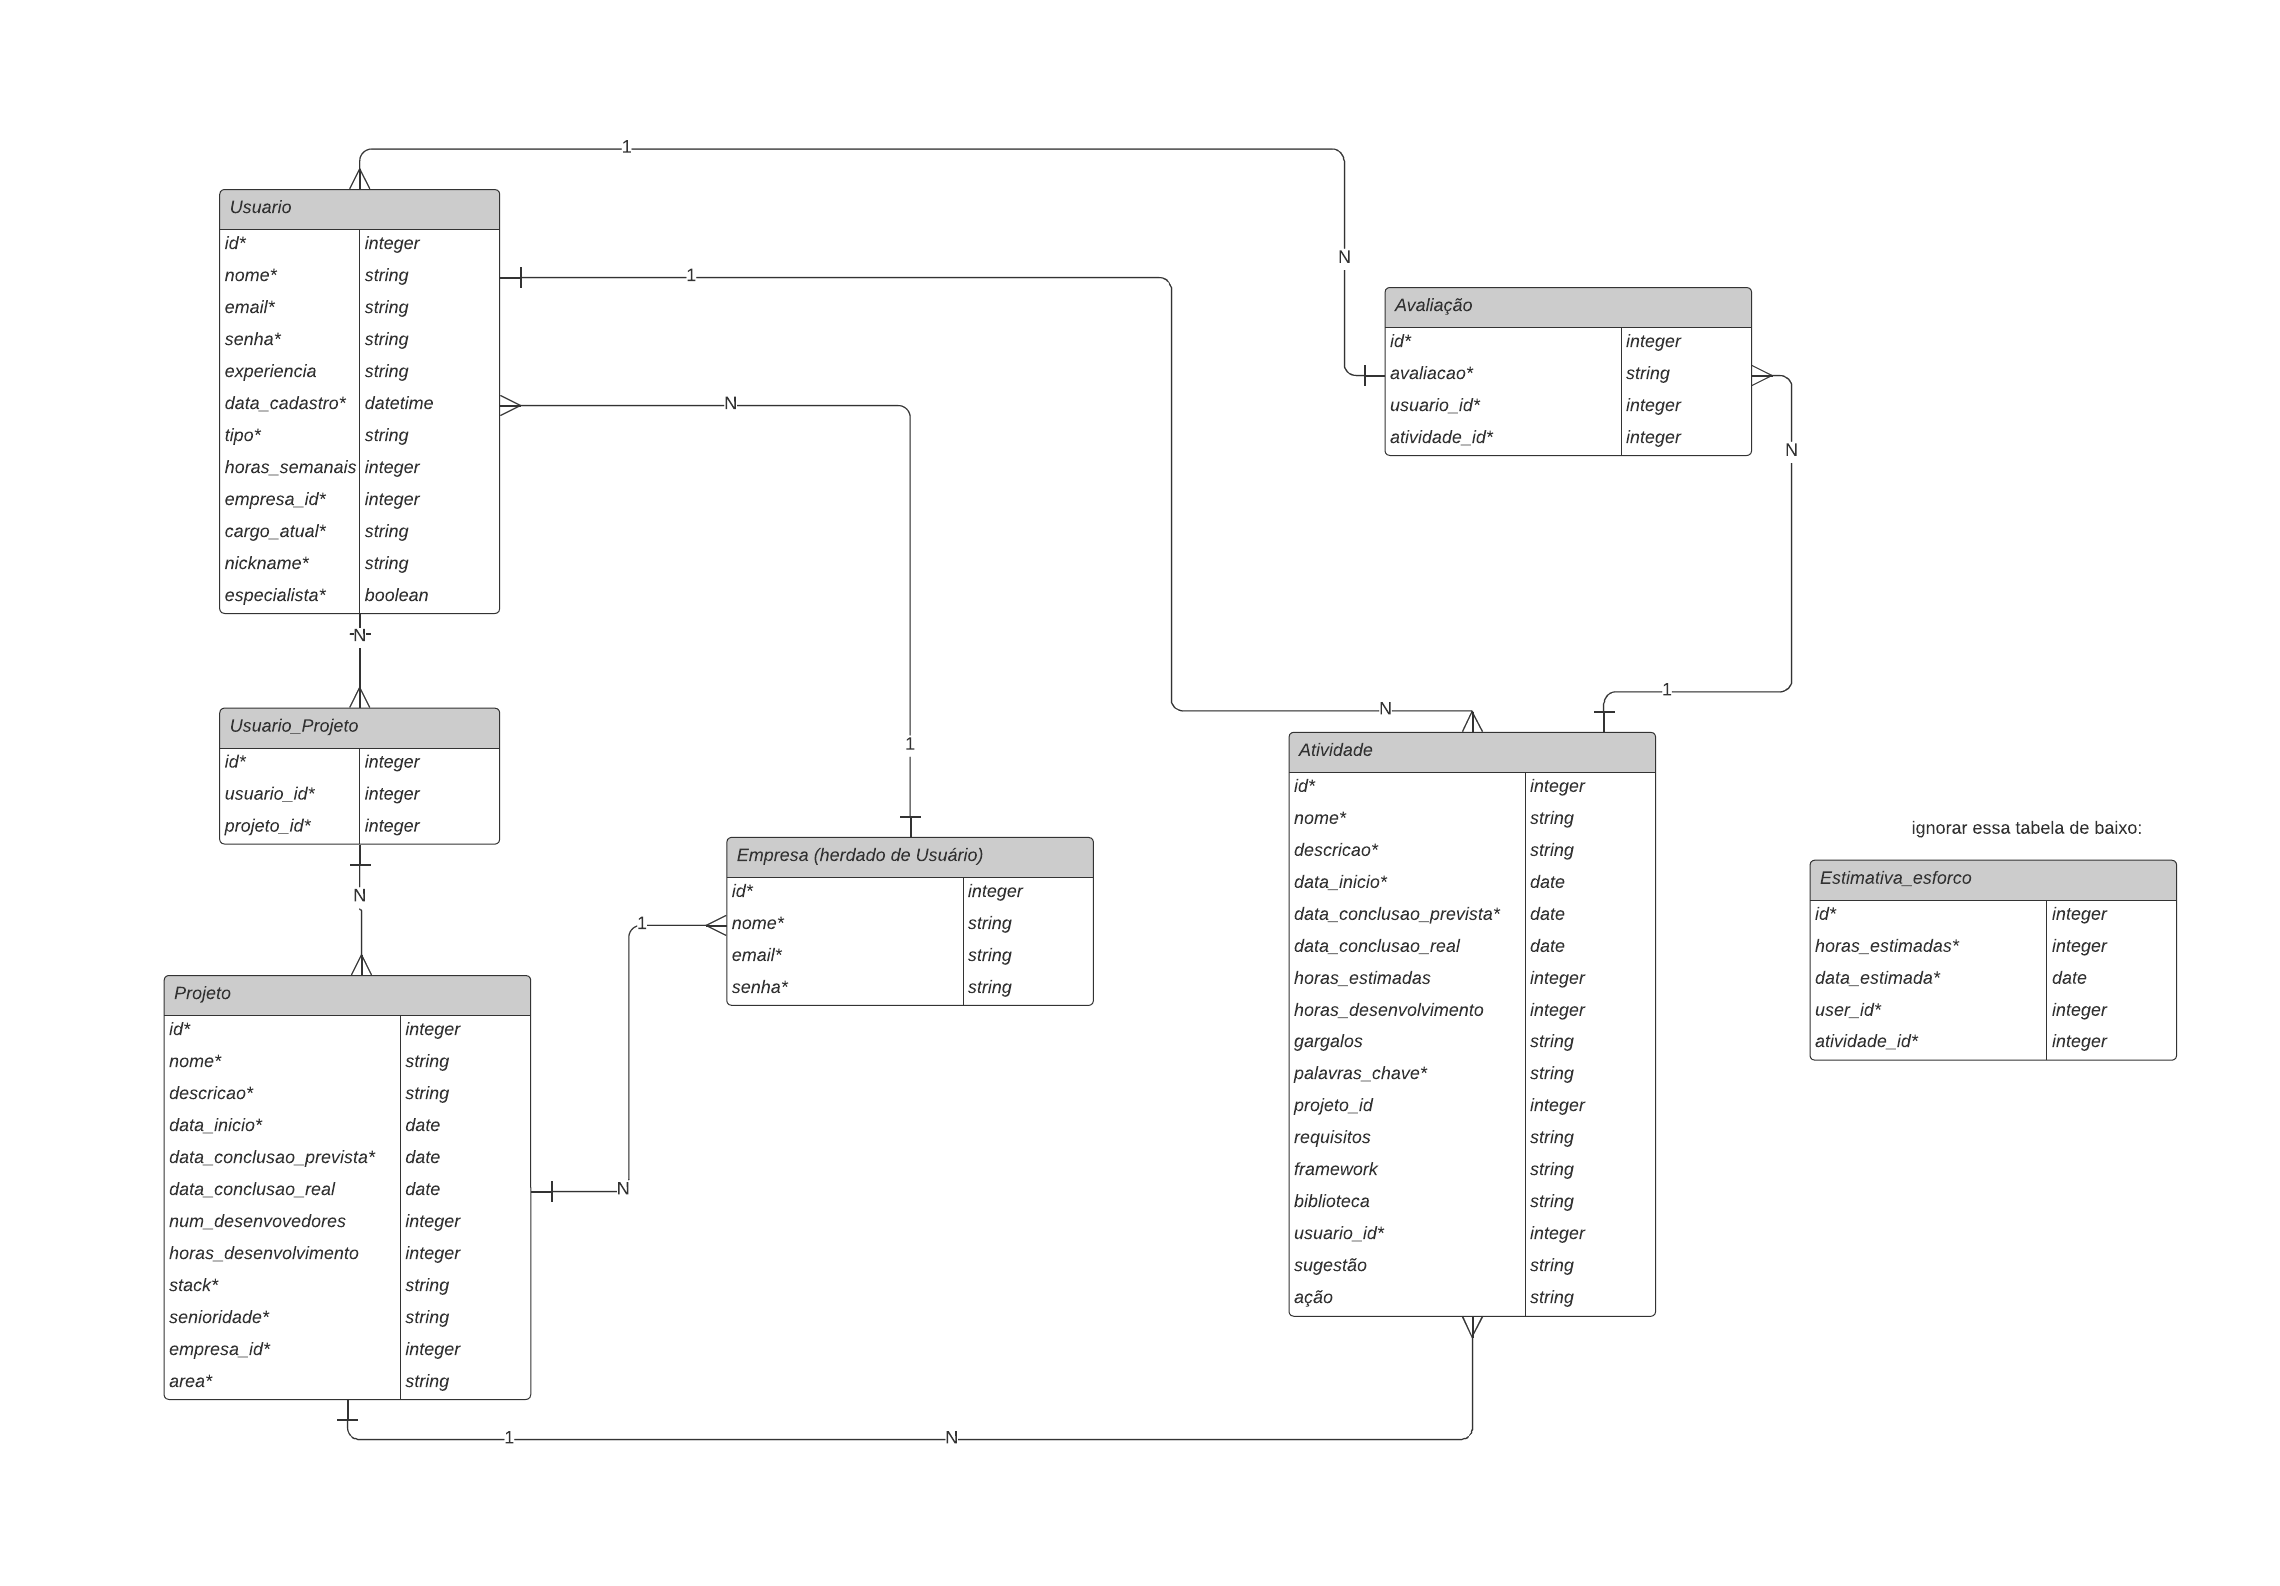
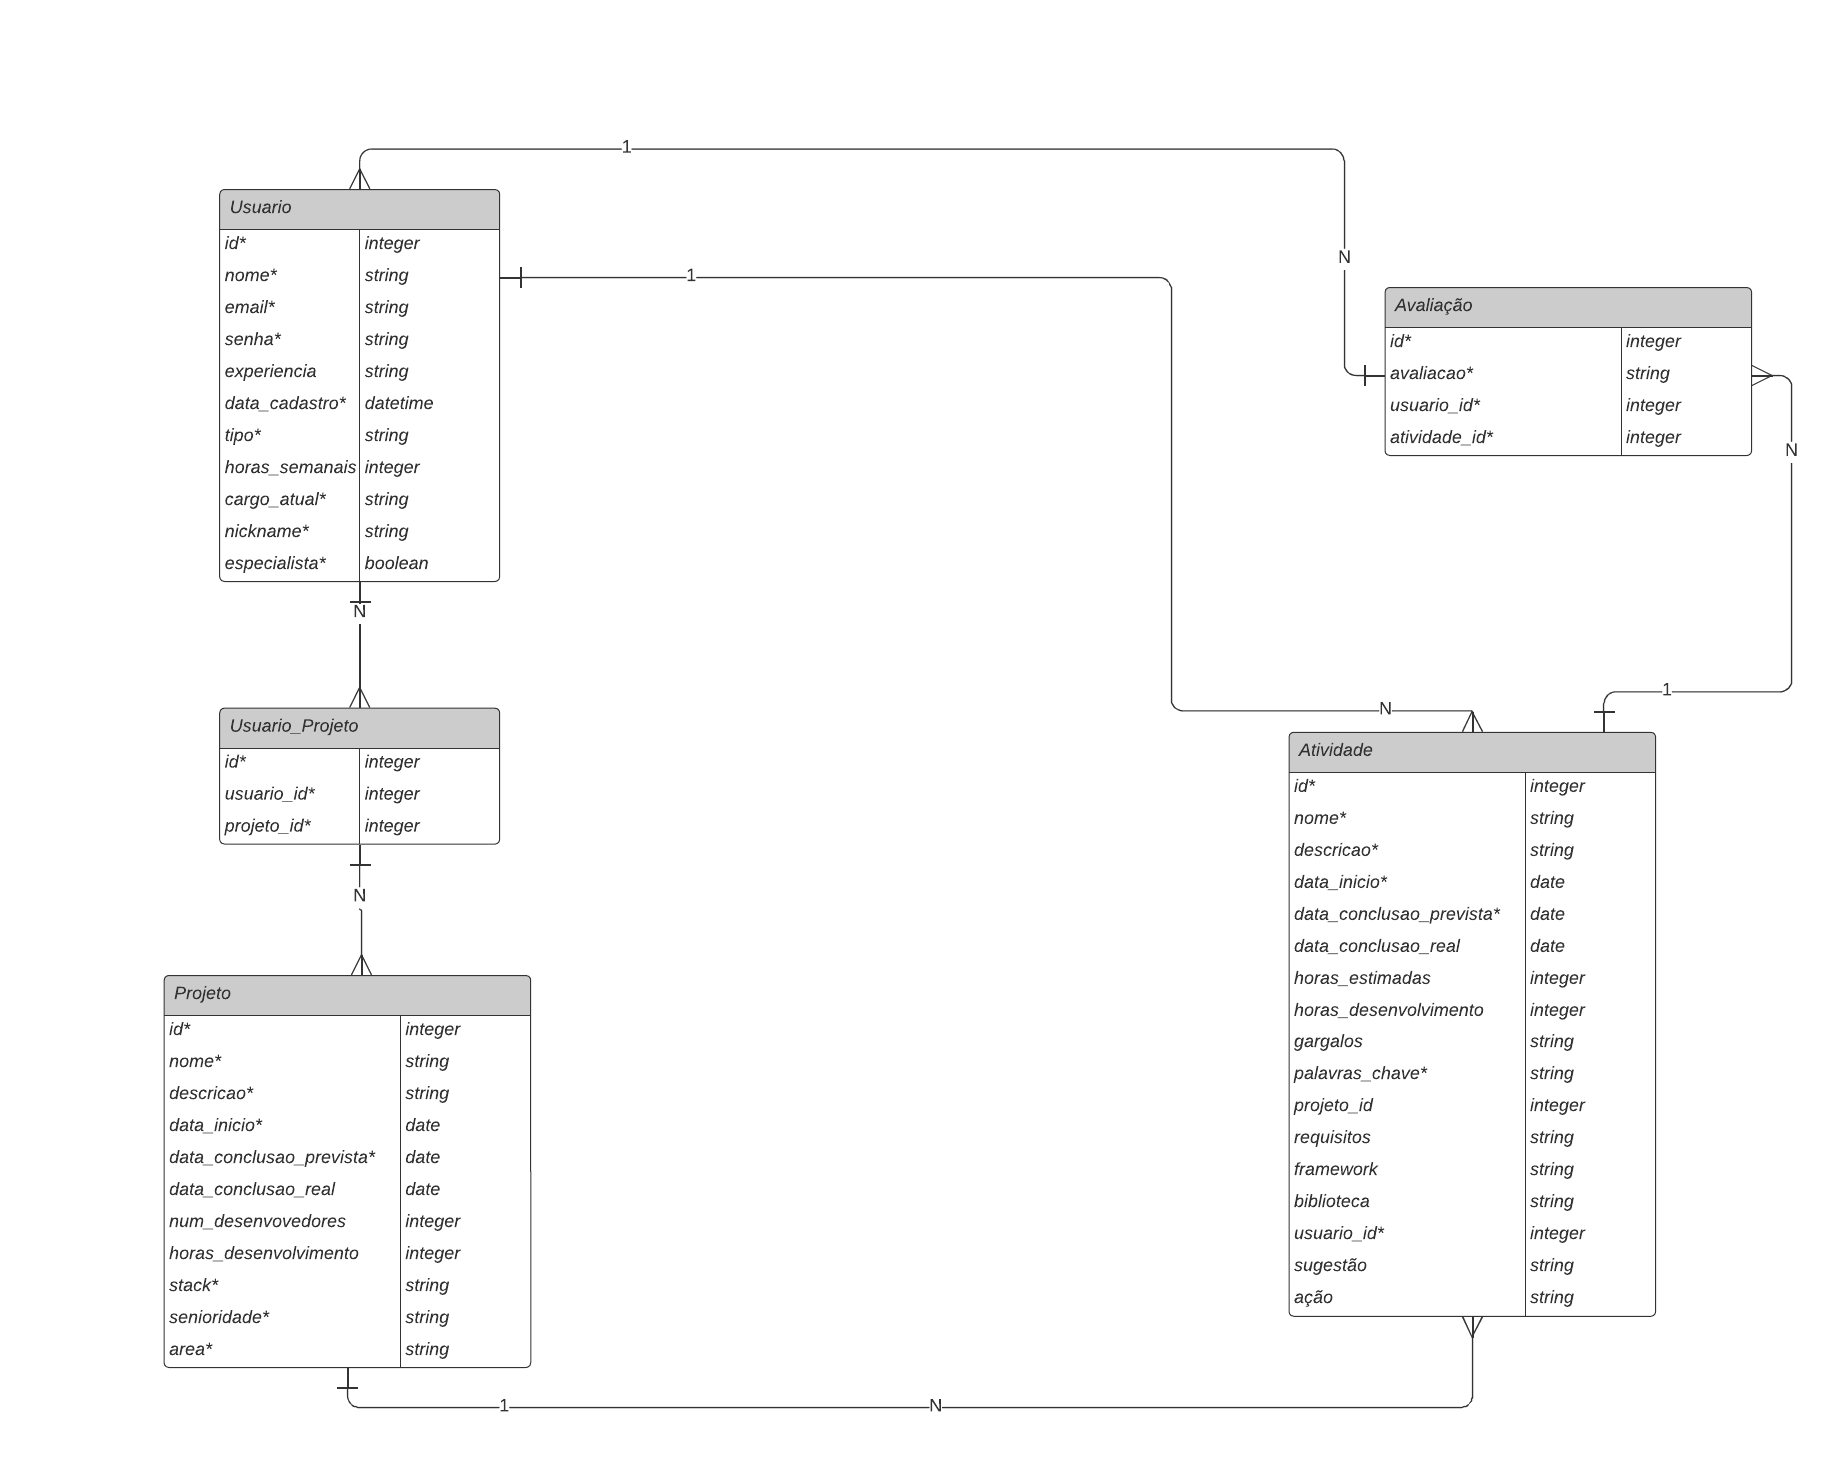
Adicionar Projeto

diff --git a/app/routes/projeto/router.py b/app/routes/projeto/router.py
@@ -1,0 +1,66 @@
+from fastapi import APIRouter, HTTPException, Path, Depends
+from database.config import SessionLocal
+from sqlalchemy.orm import Session
+from database.schemas import ProjetoSchema,RequestProjeto,Response
+from routes.projeto import functions as projeto_routes
+from datetime import datetime
+import pytz
+
+router = APIRouter()
+
+def get_db():
+    db = SessionLocal()
+    try:
+        yield db
+    finally:
+        db.close()
+
+
+@router.post("/create")
+async def create_projeto(request: RequestProjeto, db: Session = Depends(get_db)):
+    projeto_routes.f_create_projeto(db, projeto=request)
+    return Response(status="Ok",
+                    code="200",
+                    message="Projeto criado",
+                    result=request).dict(exclude_none=True)
+
+
+@router.get("/")
+async def get_projetos(skip: int = 0, limit: int = 100, db: Session = Depends(get_db)):
+    projetos_list = projeto_routes.f_get_projeto_all(db, skip, limit)
+    if len(projetos_list) != 0:
+        return Response(status="Ok", code="200", message="Projetos coletados", result=projetos_list)
+    else:
+        return Response(status="Ok", code="200", message="Nenhum projeto foi encontrado", result=None)
+
+@router.get("/{projeto_id}")
+def get_projeto_por_id(projeto_id: int, db: Session = Depends(get_db)):
+    _projeto = projeto_routes.f_get_projeto_by_id(db, projeto_id)
+    if _projeto is None:
+        return Response(status="Ok", code="200", message=f"Projeto com o ID {projeto_id} não encontrado.", result=None).dict(exclude_none=True)
+    else:
+        return Response(status="Ok", code="200", message="Projeto coletado", result=_projeto).dict(exclude_none=True)
+
+
+@router.post("/")
+async def update_projeto(request: RequestProjeto,projeto_id: int, db: Session = Depends(get_db)):
+
+    fuso_horario = pytz.timezone('America/Sao_Paulo')
+    data_atual = datetime.now().astimezone(fuso_horario)
+    _projeto = projeto_routes.f_update_projeto(db,projeto_id = projeto_id, nome= request.nome,
+                                               descricao= request.descricao,
+                                               data_inicio= request.data_inicio,
+                                               data_conclusao_prevista= request.data_conclusao_prevista,
+                                               data_conclusao_real= request.data_conclusao_real,
+                                               num_desenvolvedores= request.num_desenvolvedores,
+                                               horas_desenvolvimento= request.horas_desenvolvimento,
+                                               stack= request.stack,
+                                               senioridade= request.senioridade,
+                                               area= request.area)
+    return Response(status="Ok", code="200", message="Update feito com sucesso", result=request)
+
+
+@router.delete("/{projeto_id}")
+async def delete_projeto(projeto_id:int,  db: Session = Depends(get_db)):
+    projeto_routes.f_remove_projeto(db, projeto_id)
+    return Response(status="Ok", code="200", message="Delete feito com sucesso", result= f'ID: {projeto_id}').dict(exclude_none=True)

diff --git a/app/database/schemas.py b/app/database/schemas.py
@@ -4,7 +4,11 @@ from pydantic.generics import GenericModel
 from datetime import datetime
 
 T = TypeVar('T')
-
+class Response (GenericModel, Generic[T]):
+    code: str
+    status: str
+    message: str
+    result: Optional[T]
 class UsuarioSchema(BaseModel):
     id: Optional[int]=None
     nome: str
@@ -35,8 +39,94 @@ class RequestUsuario(BaseModel):
     cargo_atual: str
     nickname: str
     especialista: bool
-class Response (GenericModel, Generic[T]):
-    code: str
-    status: str
-    message: str
-    result: Optional[T]
+
+
+class ProjetoSchema(BaseModel):
+    id: Optional[int]=None
+    nome: str
+    descricao: str
+    data_inicio: datetime
+    data_conclusao_prevista: datetime
+    data_conclusao_real: datetime
+    num_desenvolvedores: int
+    horas_desenvolvimento: int
+    stack: str
+    senioridade: str
+    area: str
+
+    def from_orm(cls, projeto):
+        return cls(**projeto.__dict__)
+    class Config:
+        orm_mode = True
+
+class RequestProjeto(BaseModel):
+    nome: str
+    descricao: str
+    data_inicio: datetime
+    data_conclusao_prevista: datetime
+    data_conclusao_real: datetime
+    num_desenvolvedores: int
+    horas_desenvolvimento: int
+    stack: str
+    senioridade: str
+    area: str
+
+
+class AvaliacaoSchema(BaseModel):
+    id: Optional[int]=None
+    nome: Optional[str]=None
+    usuario_id: Optional[int]=None
+    atividade_id: Optional[int]=None
+
+    def from_orm(cls, avaliacao):
+        return cls(**avaliacao.__dict__)
+    class Config:
+        orm_mode = True
+
+class RequestAvaliacao(BaseModel):
+    nome: Optional[str]=None
+    usuario_id: Optional[int]=None
+    atividade_id: Optional[int]=None
+
+class AtividadeSchema(BaseModel):
+    id: Optional[int]=None
+    nome: str
+    descricao: str
+    data_inicio: datetime
+    data_conclusao_prevista: datetime
+    data_conclusao_real: datetime
+    horas_estimadas: int
+    horas_desenvolvimento: int
+    gargalos: str
+    palavras_chave: str
+    projeto_id: int
+    requisitos: str
+    framework: str
+    biblioteca: str
+    usuario_id: int
+    sugestao: str
+    acao: str
+
+
+    def from_orm(cls,atividade):
+        return cls(**atividade.__dict__)
+    class Config:
+        orm_mode = True
+
+class RequestAtividade(BaseModel):
+    nome: str
+    descricao: str
+    data_inicio: datetime
+    data_conclusao_prevista: datetime
+    data_conclusao_real: datetime
+    horas_estimadas: int
+    horas_desenvolvimento: int
+    gargalos: str
+    palavras_chave: str
+    projeto_id: int
+    requisitos: str
+    framework: str
+    biblioteca: str
+    usuario_id: int
+    sugestao: str
+    acao: str

diff --git a/app/routes/projeto/functions.py b/app/routes/projeto/functions.py
@@ -1,0 +1,63 @@
+from sqlalchemy.orm import Session
+from database.schemas import ProjetoSchema
+from database.model import Projeto
+from fastapi import FastAPI
+from datetime import datetime
+import pytz
+import json
+
+def f_get_projeto_all(db:Session, skip: int=0, limit: int = 100):
+
+    _projetos = db.query(Projeto).offset(skip).limit(limit).all()
+
+    projetos_list = []
+    for projeto in _projetos:
+        projeto_dict = {column.name: getattr(projeto, column.name) for column in Projeto.__table__.columns}
+        projetos_list.append(projeto_dict)
+
+    return projetos_list
+
+def f_get_projeto_by_id(db:Session,projeto_id:int):
+    return db.query(Projeto).filter(Projeto.id == projeto_id).first()
+
+def f_create_projeto(db:Session, projeto: ProjetoSchema):
+    _projeto = Projeto(
+        nome= projeto.nome,
+        descricao= projeto.descricao,
+        data_inicio= projeto.data_inicio,
+        data_conclusao_prevista= projeto.data_conclusao_prevista,
+        data_conclusao_real= projeto.data_conclusao_real,
+        num_desenvolvedores= projeto.num_desenvolvedores,
+        horas_desenvolvimento= projeto.horas_desenvolvimento,
+        stack= projeto.stack,
+        senioridade= projeto.senioridade,
+        area= projeto.area,
+    )
+
+    db.add(_projeto)
+    db.commit()
+    db.refresh(_projeto)
+    return _projeto
+
+def f_remove_projeto(db:Session, projeto_id: int):
+    _projeto = f_get_projeto_by_id(db=db,projeto_id=projeto_id)
+    db.delete(_projeto)
+    db.commit()
+
+def f_update_projeto(db:Session,projeto_id: int,nome: str,descricao: str,data_inicio: datetime,data_conclusao_prevista: datetime,data_conclusao_real: datetime,num_desenvolvedores: int,horas_desenvolvimento: int,stack: str, senioridade: str, area: str):
+
+    _projeto = f_get_projeto_by_id(db,projeto_id)
+    _projeto.nome= nome,
+    _projeto.descricao= descricao,
+    _projeto.data_inicio= data_inicio,
+    _projeto.data_conclusao_prevista= data_conclusao_prevista,
+    _projeto.data_conclusao_real= data_conclusao_real,
+    _projeto.num_desenvolvedores= num_desenvolvedores,
+    _projeto.horas_desenvolvimento= horas_desenvolvimento,
+    _projeto.stack= stack,
+    _projeto.senioridade= senioridade,
+    _projeto.area= area,
+
+    db.commit()
+
+    return _projeto

diff --git a/app/main.py b/app/main.py
@@ -1,7 +1,8 @@
 from fastapi import FastAPI
-from internal import admin
-from usuario import router
-from os import environ as env
+from routes.usuario import router as router_usuario
+from routes.projeto import router as router_projeto
+from routes.avaliacao import router as router_avaliacao
+from routes.atividade import router as router_atividade
 from fastapi.middleware.cors import CORSMiddleware
 import database.model as model
 from database.config import engine
@@ -19,10 +20,12 @@ app.add_middleware(
 )
 
 # Incluir Rotas
-app.include_router(router.router,prefix="/usuario", tags=["User"])
-app.include_router(admin.router,tags=["Admin"])
+app.include_router(router_usuario.router, prefix="/user", tags=["Usuario"])
+app.include_router(router_projeto.router, prefix="/project", tags=["Projeto"])
+app.include_router(router_avaliacao.router, prefix="/rating", tags=["Avaliação"])
+app.include_router(router_atividade.router, prefix="/task", tags=["Atividade"])
 
 # Get da Main
-@app.get("/", tags=["Main"])
+@app.get("/", tags=["Root"])
 async def root():
     return {"message": f"V1.0.1 API EstiMate"}

diff --git a/app/database/model.py b/app/database/model.py
@@ -15,7 +15,6 @@ class Usuario(Base):
     data_cadastro = Column(DateTime(timezone=True), default=func.now())
     tipo = Column(String)
     horas_semanais = Column(Integer)
-    empresa_id = Column(String)
     cargo_atual = Column(String)
     nickname = Column(String)
     especialista = Column(Boolean)
@@ -40,16 +39,7 @@ class Projeto(Base):
     horas_desenvolvimento = Column(Integer)
     stack = Column(String)
     senioridade = Column(String)
-    empresa_id = Column(String)
     area = Column(String)
-
-class Empresa(Base):
-    __tablename__ = 'empresa'
-
-    id = Column(Integer, primary_key=True, autoincrement=True)
-    nome = Column(String)
-    email = Column(String)
-    senha = Column(String)
 
 class Avaliacao(Base):
     __tablename__ = 'avaliacao'

diff --git a/app/routes/usuario/router.py b/app/routes/usuario/router.py
@@ -2,7 +2,7 @@ from fastapi import APIRouter, HTTPException, Path, Depends
 from database.config import SessionLocal
 from sqlalchemy.orm import Session
 from database.schemas import UsuarioSchema,RequestUsuario,Response
-from usuario import usuario_routes
+from routes.usuario import functions as usuario_routes
 from datetime import datetime
 import pytz
 

diff --git a/app/routes/atividade/router.py b/app/routes/atividade/router.py
@@ -1,0 +1,12 @@
+from fastapi import APIRouter, HTTPException, Path, Depends
+from database.config import SessionLocal
+
+
+router = APIRouter()
+
+def get_db():
+    db = SessionLocal()
+    try:
+        yield db
+    finally:
+        db.close()

diff --git a/app/routes/avaliacao/router.py b/app/routes/avaliacao/router.py
@@ -1,0 +1,11 @@
+from fastapi import APIRouter, HTTPException, Path, Depends
+from database.config import SessionLocal
+
+router = APIRouter()
+
+def get_db():
+    db = SessionLocal()
+    try:
+        yield db
+    finally:
+        db.close()
